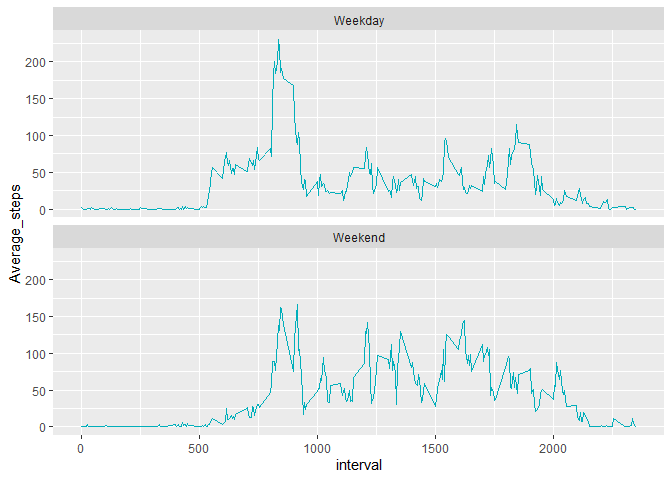
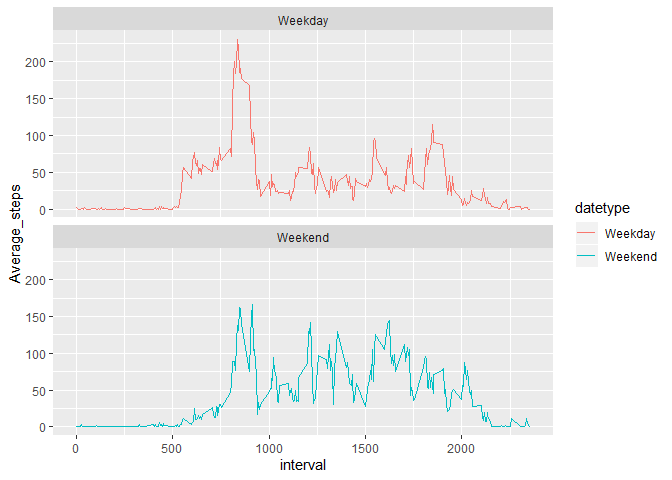
Using render

diff --git a/PA1_template.md b/PA1_template.md
@@ -89,7 +89,7 @@ Are there differences in activity patterns between weekdays and weekends?
 
     wtime_interval <- activity_full %>% group_by(interval, datetype) %>% summarise(Average_steps = mean(steps))
 
-    ggplot(data = wtime_interval, aes(x = interval, y = Average_steps))+
-      geom_line(color = "#00AFBB", size = .5) + facet_wrap(~datetype, nrow=2)
+    ggplot(data = wtime_interval, aes(x = interval, y = Average_steps, color = datetype))+
+      geom_line(size = .5) + facet_wrap(~datetype, nrow=2)
 
 ![](PA1_template_files/figure-markdown_strict/unnamed-chunk-3-1.png)
